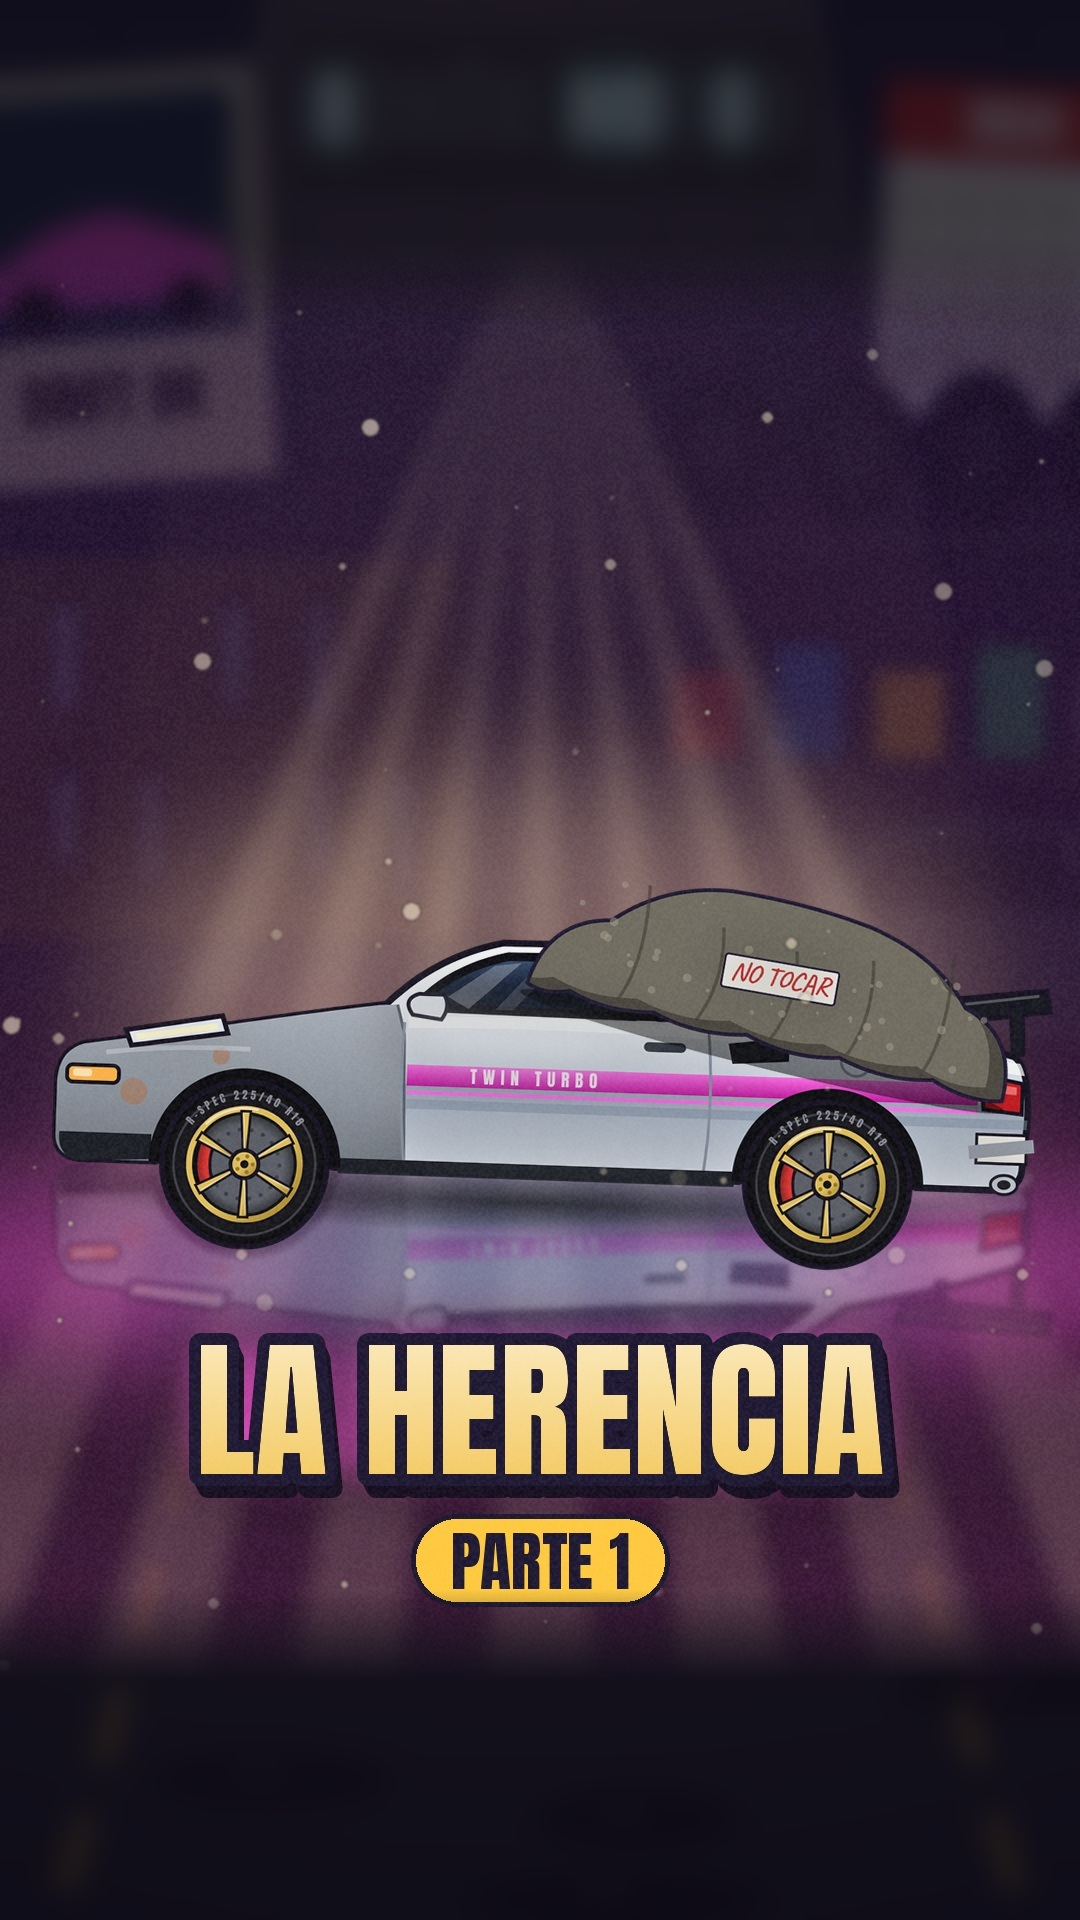
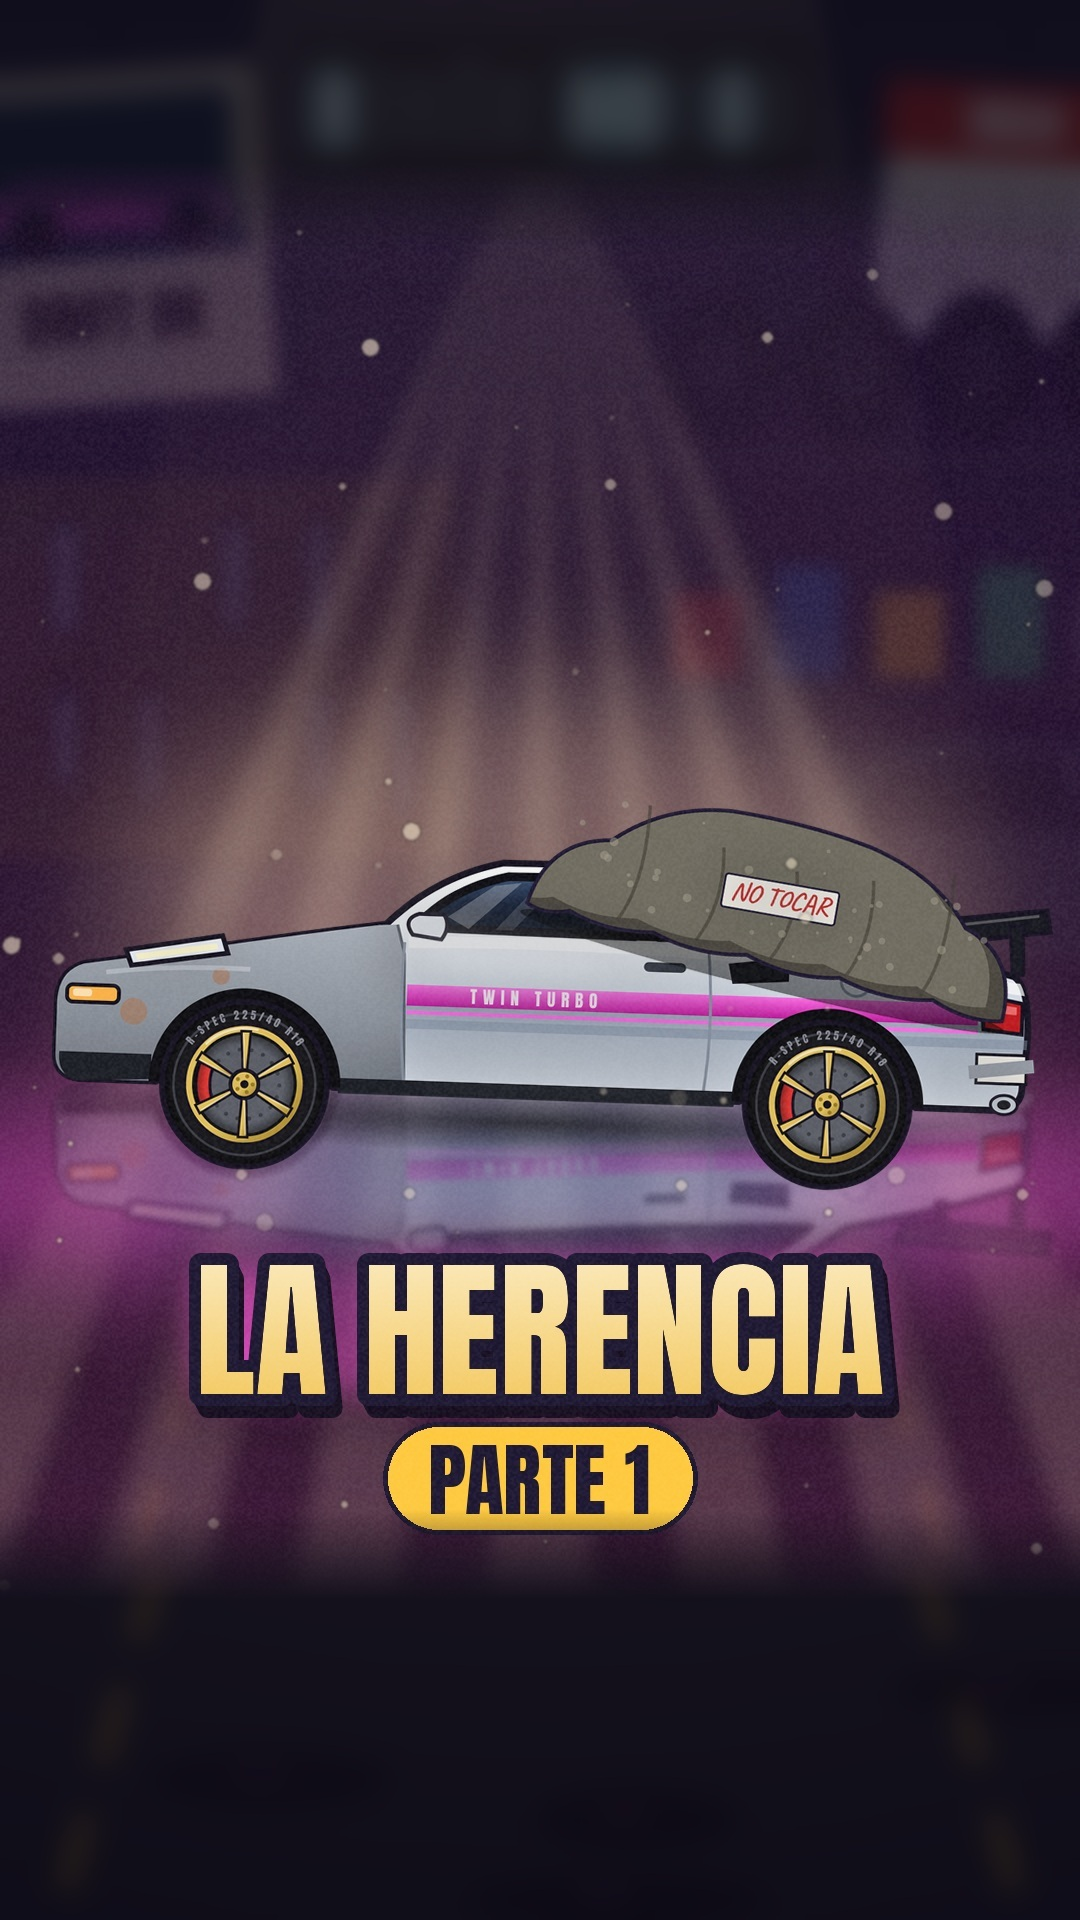
Portadas pro: contenido más arriba y PARTE más grande
Claude-Session: https://claude.ai/code/session_01NdJoArJvAFN6ncq433eaCm

diff --git a/taller-pov/portada_pro.py b/taller-pov/portada_pro.py
@@ -62,10 +62,10 @@ def titulo(c, s, col1, col2, glowcol, y=1170):
     c.alpha_composite(sh, (0, y - 130))
     txt = Image.new("RGBA", (CW, 260), (0, 0, 0, 0)); txt.paste(gr, (0, 0), m); c.alpha_composite(txt, (0, y - 130))
 
-def chip(c, n, col, y=1320):
-    d = ImageDraw.Draw(c); s = f"PARTE {n}"; f = r.font(F_ANTON, 64)
-    w = d.textlength(s, font=f) + 80
-    d.rounded_rectangle((540 - w / 2, y - 46, 540 + w / 2, y + 46), 46, fill=col, outline=OL, width=5)
+def chip(c, n, col, y=1318):
+    d = ImageDraw.Draw(c); s = f"PARTE {n}"; f = r.font(F_ANTON, 80)
+    w = d.textlength(s, font=f) + 90
+    d.rounded_rectangle((540 - w / 2, y - 56, 540 + w / 2, y + 56), 56, fill=col, outline=OL, width=5)
     d.text((540, y + 2), s, font=f, fill=OL, anchor="mm")
 
 def bloom(c, thr=200, k=.55):
@@ -148,6 +148,8 @@ if __name__ == "__main__":
     grid.save(os.path.join(r.HERE, "perfil_ejemplo_pro.jpg"), quality=92)
     print("ok")
 
+SUBE = 80   # sube todo el diseño dentro de la zona que muestra la cuadrícula
+
 def a_916(path34, bgname, fx, fy, out):
     """Pasa la portada 3:4 a 9:16 (1080x1920) para Instagram: la cuadrícula del perfil recorta justo el centro 3:4,
     así que el diseño queda entero y arriba/abajo se rellena con el mismo fondo desenfocado."""
@@ -156,5 +158,5 @@ def a_916(path34, bgname, fx, fy, out):
     m = Image.new("L", im.size, 255); md = ImageDraw.Draw(m)
     for i in range(90):   # fundido suave arriba y abajo
         a = int(255 * i / 90); md.line((0, i, CW, i), fill=a); md.line((0, CH - 1 - i, CW, CH - 1 - i), fill=a)
-    full.paste(im, (0, 240), m)
+    full.paste(im, (0, 240 - SUBE), m)
     full.convert("RGB").save(out, quality=94)
